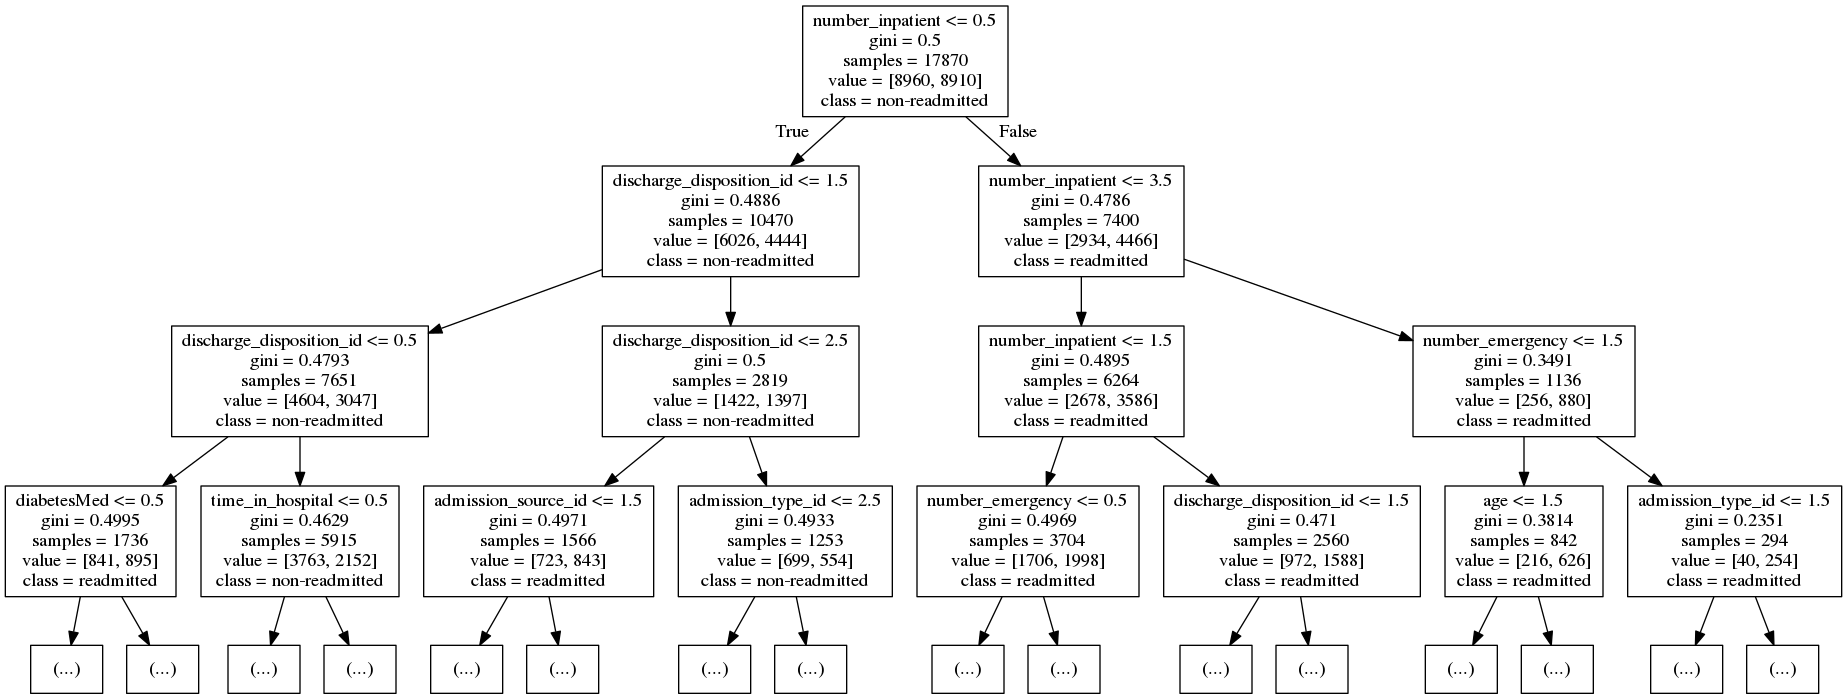
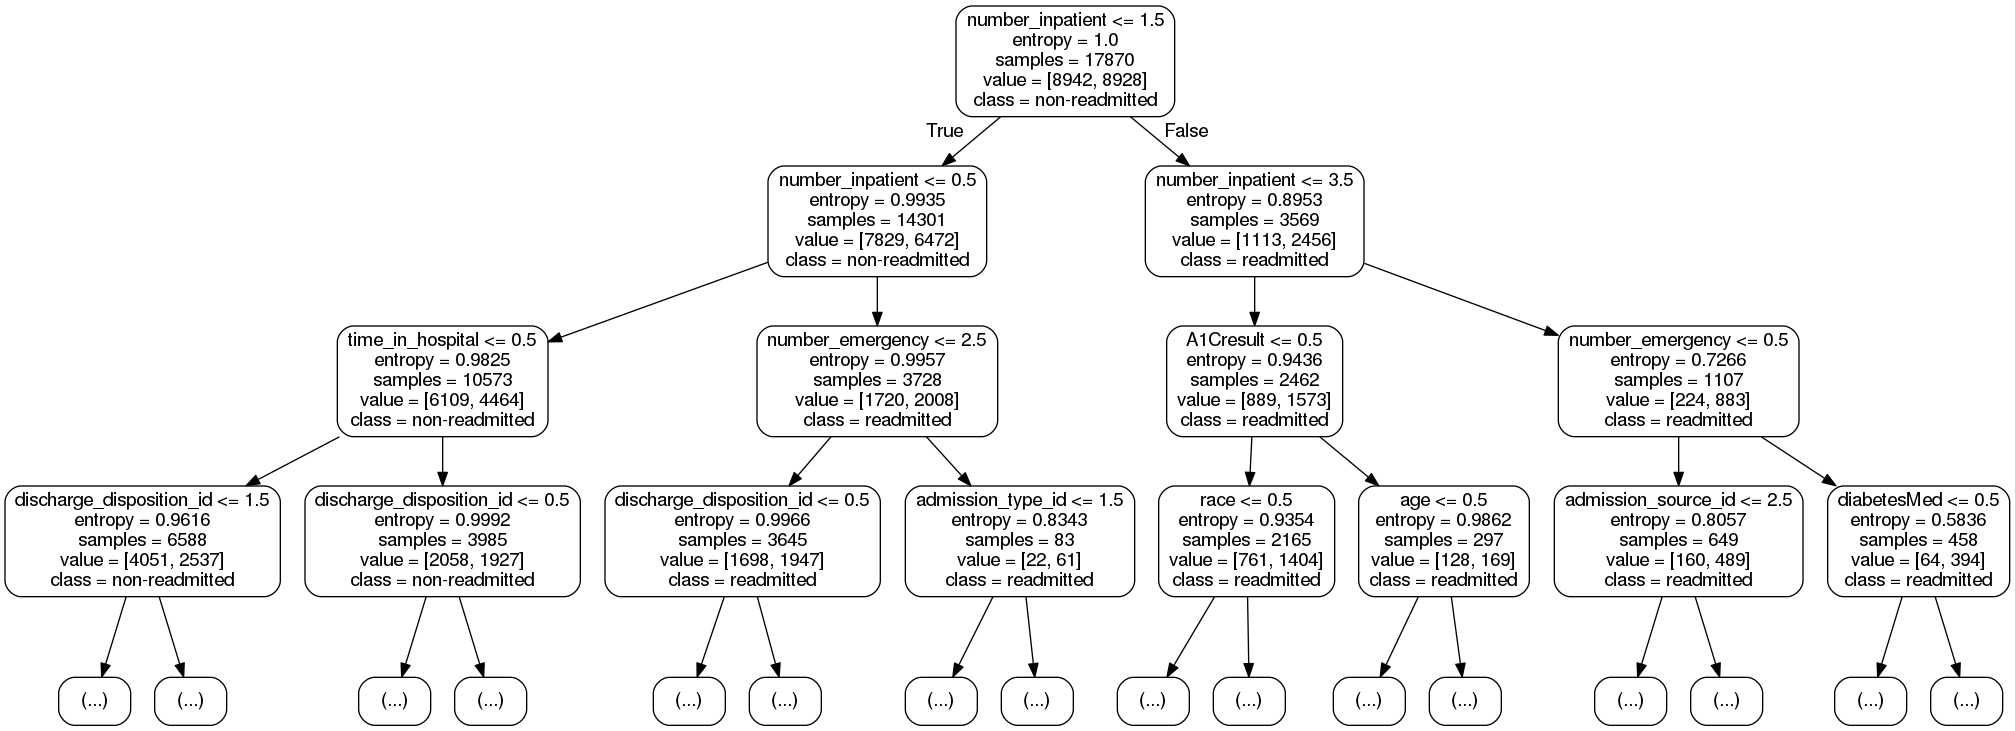
entropy

diff --git a/classifier/diabetic_tree1205.py b/classifier/diabetic_tree1205.py
@@ -97,9 +97,9 @@ if_all_cls = True
 classifiers = list()
 classifier_names = list()
 
-dtree = DecisionTreeClassifier(max_depth=5,random_state=0)
+dtree = DecisionTreeClassifier(criterion="entropy",max_depth=5)
 dtree.fit(train_data, train_labels.ravel())
-export_graphviz(dtree, max_depth=3,feature_names=features,class_names=["non-readmitted", "readmitted"])
+export_graphviz(dtree, max_depth=3,feature_names=features,class_names=["non-readmitted", "readmitted"],leaves_parallel=True,rounded=True)
 classifiers.append(dtree) 
 classifier_names.append('Decision Tree')
 
@@ -115,12 +115,12 @@ if if_all_cls:
     classifiers.append(mlp) 
     classifier_names.append('Multi Layer Perceptron')
 
-    rfc = RandomForestClassifier(criterion="gini", max_features=None, n_jobs=-1, verbose=False)
+    rfc = RandomForestClassifier(criterion="entropy", max_features=None, n_jobs=-1, verbose=False)
     rfc.fit(train_data, train_labels.ravel())
     classifiers.append(rfc) 
     classifier_names.append('Random Forest')
 
-    abc = AdaBoostClassifier()
+    abc = AdaBoostClassifier(dtree)
     abc.fit(train_data, train_labels.ravel())
     classifiers.append(abc) 
     classifier_names.append('AdaBoost')
